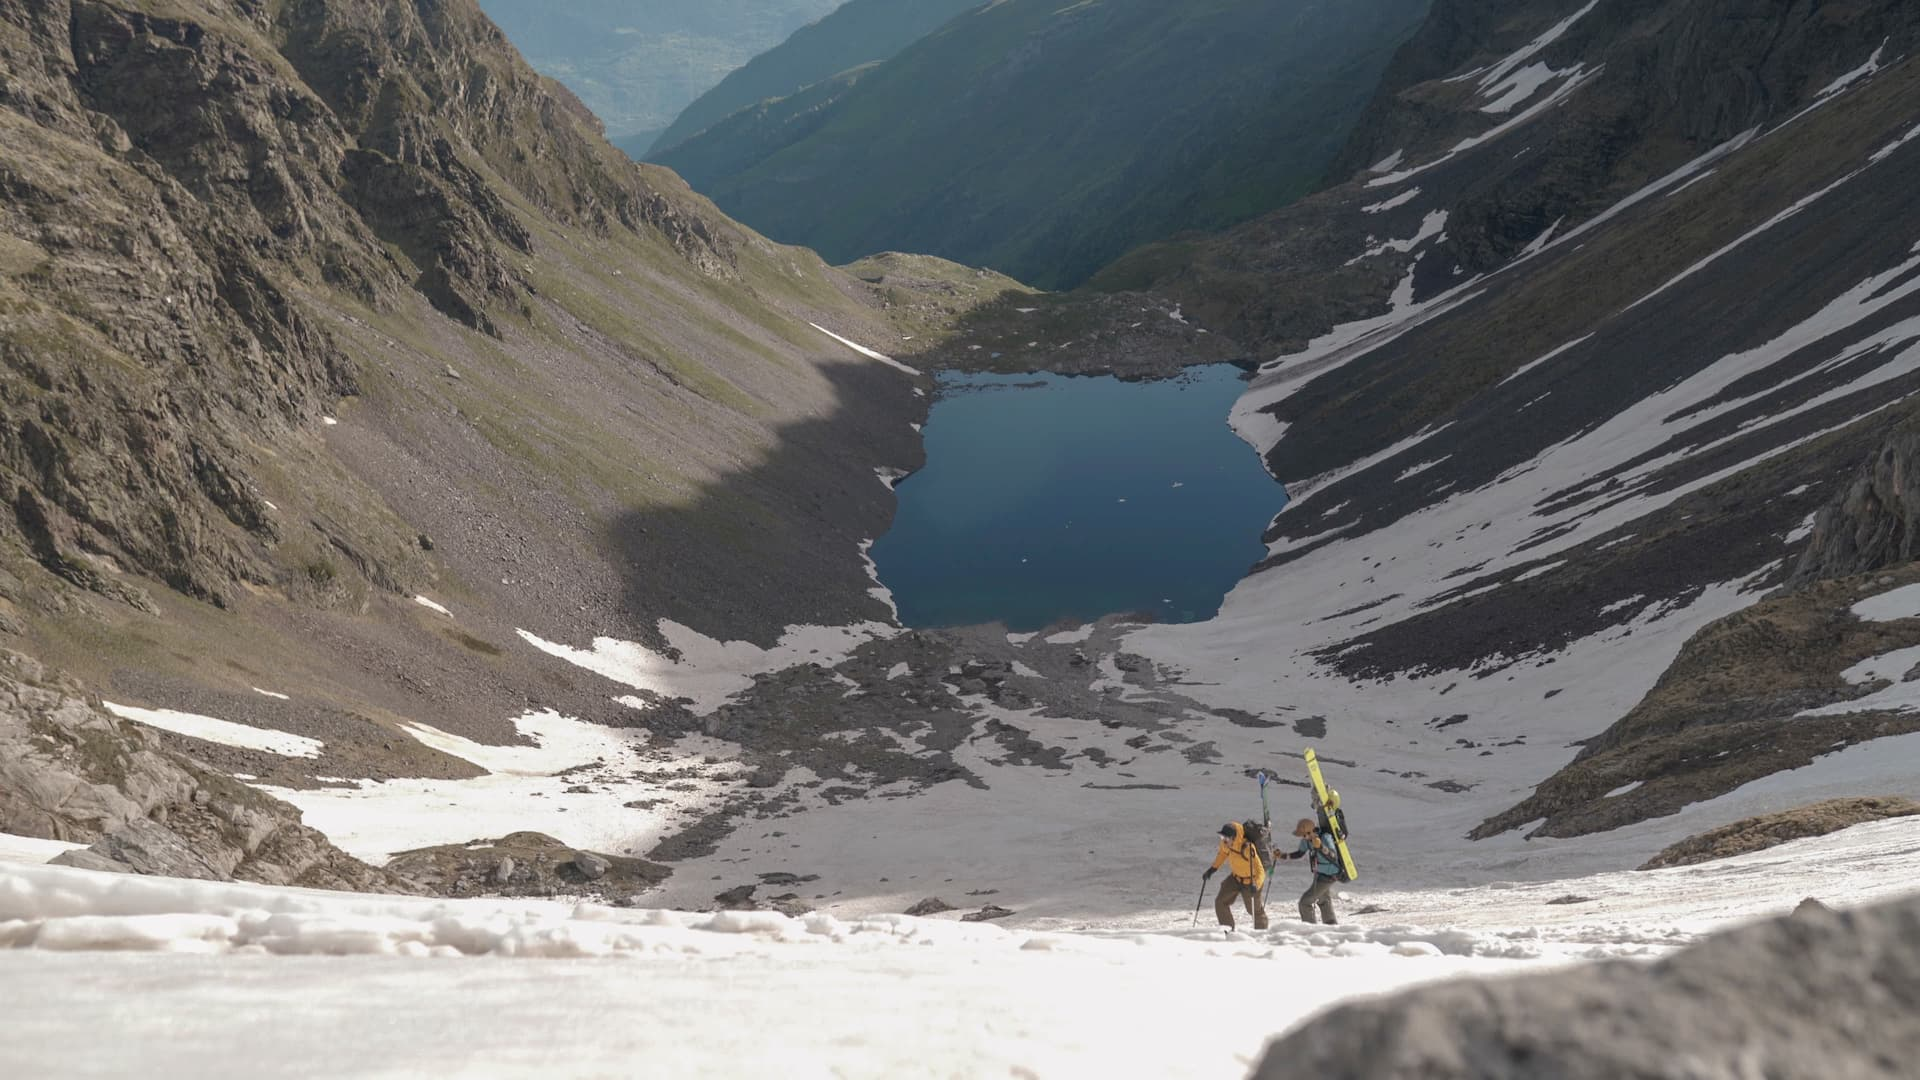
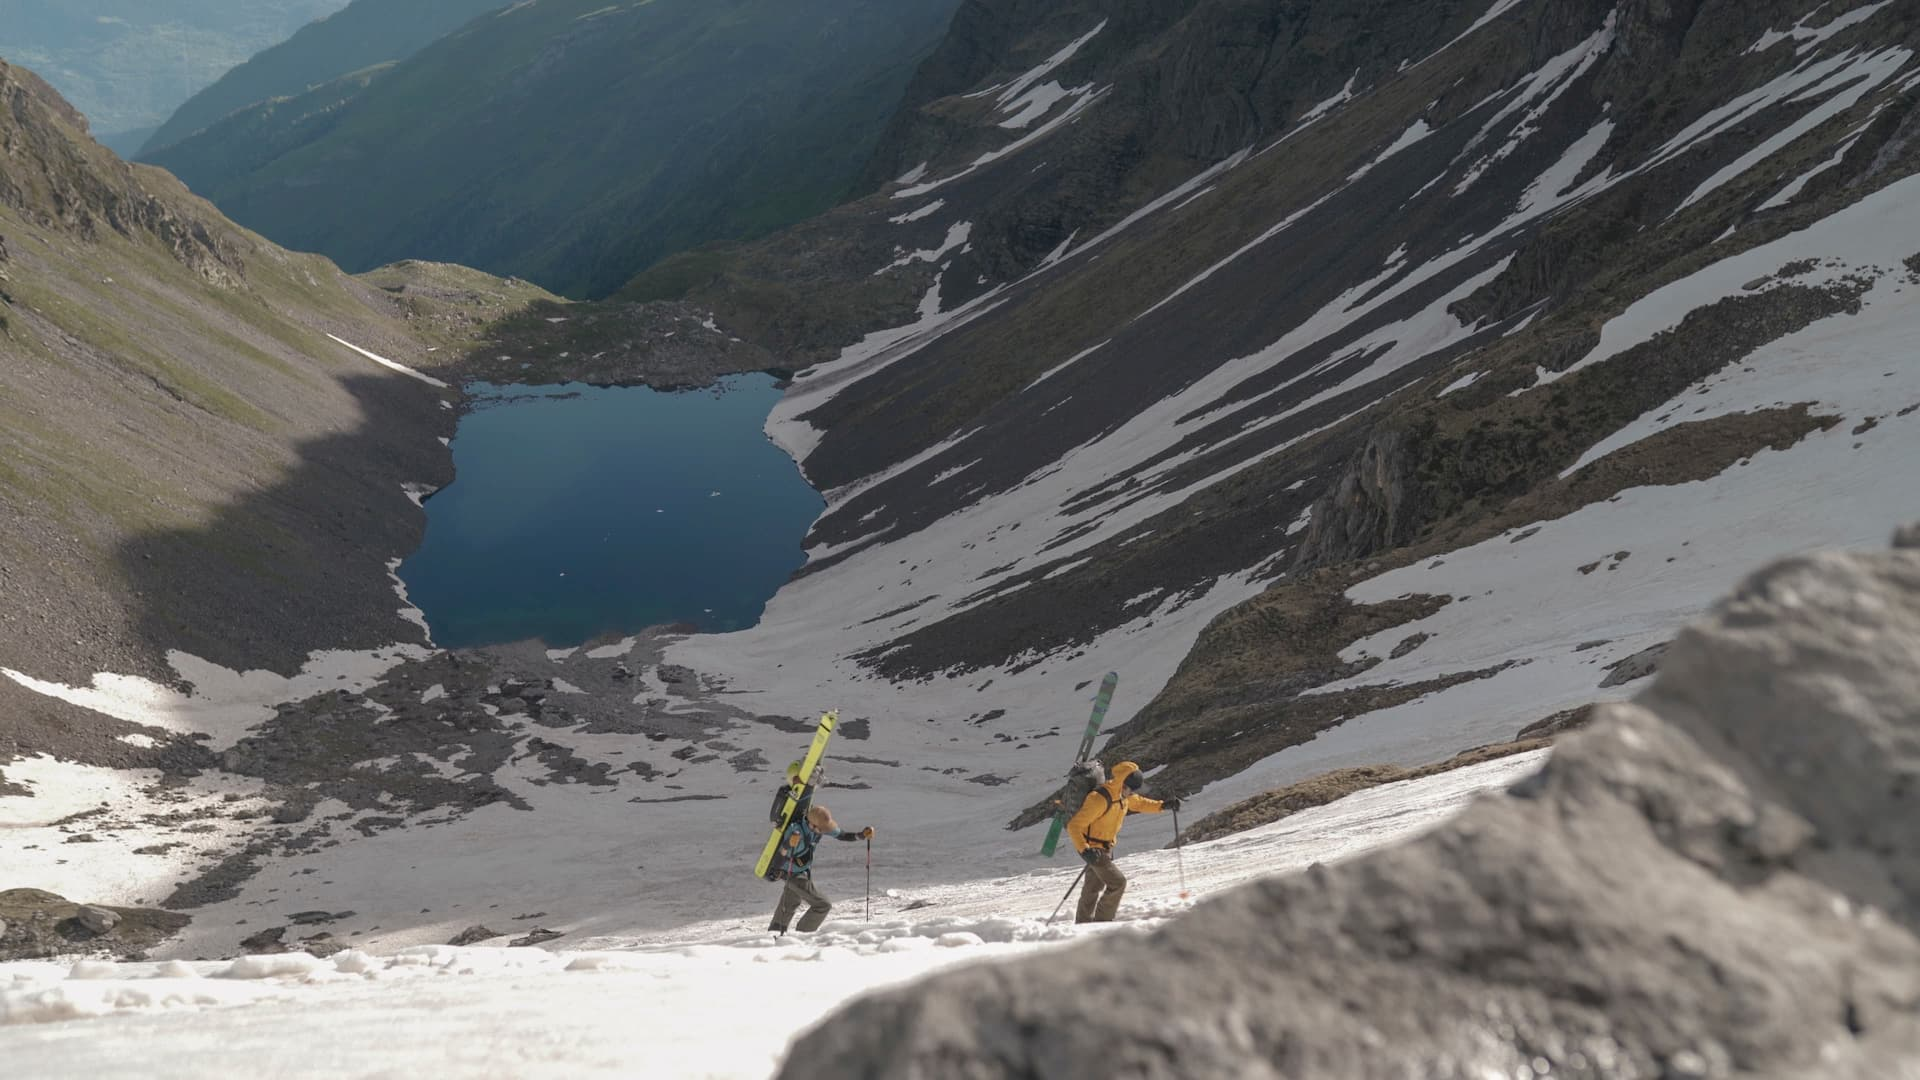
added picture gallery

diff --git a/components/Header/index.js b/components/Header/index.js
@@ -39,26 +39,11 @@ export default function Header() {
   return <div >
     <Navbar />
     <div ref={childrenRef}>
-      <img className="uk-animation-fade" hidden={imageIndex == 0 ? false : true} id="image0" src="images\foto0.jpg" alt="Soul Mountain project" />
-      {/* <img className="uk-animation-fade" hidden={imageIndex == 1 ? false : true} id="image1" src="images\foto1.jpg" alt="Soul Mountain project" /> */}
-      <img className="uk-animation-fade" hidden={imageIndex == 1 ? false : true} id="image2" src="images\foto2.jpg" alt="Soul Mountain project" />
-      {/* <img className="uk-animation-fade" hidden={imageIndex == 3 ? false : true} id="image3" src="images\foto3.jpg" alt="Soul Mountain project" /> */}
-      {/* <img className="uk-animation-fade" hidden={imageIndex == 4 ? false : true} id="image4" src="images\foto4.jpg" alt="Soul Mountain project" /> */}
-      {/* <img className="uk-animation-fade" hidden={imageIndex == 5 ? false : true} id="image5" src="images\foto5.jpg" alt="Soul Mountain project" /> */}
-      <img className="uk-animation-fade" hidden={imageIndex == 2 ? false : true} id="image6" src="images\foto6.jpg" alt="Soul Mountain project" />
-      <img className="uk-animation-fade" hidden={imageIndex == 3 ? false : true} id="image7" src="images\foto7.jpg" alt="Soul Mountain project" />
-      {/* <img className="uk-animation-fade" hidden={imageIndex == 8 ? false : true} id="image8" src="images\foto8.jpg" alt="Soul Mountain project" /> */}
-      {/* <img className="uk-animation-fade" hidden={imageIndex == 9 ? false : true} id="image9" src="images\foto9.jpg" alt="Soul Mountain project" /> */}
-      {/* <img className="uk-animation-fade" hidden={imageIndex == 10 ? false : true} id="image10" src="images\foto10.jpg" alt="Soul Mountain project" /> */}
-      {/* <img className="uk-animation-fade" hidden={imageIndex == 11 ? false : true} id="image11" src="images\foto11.jpg" alt="Soul Mountain project" /> */}
-      {/* <img className="uk-animation-fade" hidden={imageIndex == 12 ? false : true} id="image12" src="images\foto12.jpg" alt="Soul Mountain project" /> */}
-      <img className="uk-animation-fade" hidden={imageIndex == 4 ? false : true} id="image13" src="images\foto13.jpg" alt="Soul Mountain project" />
-      {/* <img className="uk-animation-fade" hidden={imageIndex == 14 ? false : true} id="image14" src="images\foto14.jpg" alt="Soul Mountain project" /> */}
-      {/* <img className="uk-animation-fade" hidden={imageIndex == 15 ? false : true} id="image15" src="images\foto15.jpg" alt="Soul Mountain project" /> */}
-      {/* <img className="uk-animation-fade" hidden={imageIndex == 16 ? false : true} id="image16" src="images\foto16.jpg" alt="Soul Mountain project" /> */}
-      {/* <img className="uk-animation-fade" hidden={imageIndex == 17 ? false : true} id="image17" src="images\foto17.jpg" alt="Soul Mountain project" /> */}
-      {/* <img className="uk-animation-fade" hidden={imageIndex == 18 ? false : true} id="image18" src="images\foto18.jpg" alt="Soul Mountain project" /> */}
-      {/* <img className="uk-animation-fade" hidden={imageIndex == 19 ? false : true} id="image19" src="images\foto19.jpg" alt="Soul Mountain project" /> */}
+      <img className="uk-animation-fade" hidden={imageIndex == 0 ? false : true} id="slide0" src="images\slide0.jpg" alt="Soul Mountain project" />
+      <img className="uk-animation-fade" hidden={imageIndex == 1 ? false : true} id="slide1" src="images\slide1.jpg" alt="Soul Mountain project" />
+      <img className="uk-animation-fade" hidden={imageIndex == 2 ? false : true} id="slide2" src="images\slide2.jpg" alt="Soul Mountain project" />
+      <img className="uk-animation-fade" hidden={imageIndex == 3 ? false : true} id="slide3" src="images\slide3.jpg" alt="Soul Mountain project" />
+      <img className="uk-animation-fade" hidden={imageIndex == 4 ? false : true} id="slide4" src="images\slide4.jpg" alt="Soul Mountain project" />
     </div>
     <div className="uk-hidden@l uk-flex uk-fex-center logoMobile" >
       <div className="uk-width-1-1 uk-text-center">

diff --git a/components/GallerySection/index.js b/components/GallerySection/index.js
@@ -1,0 +1,68 @@
+
+export default function GallerySection() {
+
+  return <div className="uk-padding uk-padding-remove-horizontal uk-flex uk-flex-column uk-width-1-1">
+    <div className="uk-padding uk-padding-remove-bottom uk-width-1-1" data-uk-scrollspy="cls:uk-animation-scale-up; delay:250; repeat: true">
+      <h1 className="uk-padding-small uk-padding-remove-top uk-heading-line uk-text-center"><span>Gallery</span></h1>
+    </div>
+    <div className="uk-padding uk-padding-remove-top">
+      <div data-uk-slideshow="animation: push; autoplay: true">
+        <div className="uk-position-relative uk-visible-toggle uk-light" tabIndex="-1">
+
+          <ul className="uk-slideshow-items">
+            <li>
+              <img id="image1" src="images\foto1.jpg" alt="Soul Mountain project" data-uk-cover />
+            </li>
+            <li>
+              <img id="image2" src="images\foto2.jpg" alt="Soul Mountain project" data-uk-cover />
+            </li>
+            <li>
+              <img id="image3" src="images\foto3.jpg" alt="Soul Mountain project" data-uk-cover />
+            </li>
+            <li>
+              <img id="image4" src="images\foto4.jpg" alt="Soul Mountain project" data-uk-cover />
+            </li>
+            <li>
+              <img id="image5" src="images\foto5.jpg" alt="Soul Mountain project" data-uk-cover />
+            </li>
+            <li>
+              <img id="image6" src="images\foto6.jpg" alt="Soul Mountain project" data-uk-cover />
+            </li>
+            <li>
+              <img id="image7" src="images\foto7.jpg" alt="Soul Mountain project" data-uk-cover />
+            </li>
+            <li>
+              <img id="image8" src="images\foto8.jpg" alt="Soul Mountain project" data-uk-cover />
+            </li>
+            <li>
+              <img id="image9" src="images\foto9.jpg" alt="Soul Mountain project" data-uk-cover />
+            </li>
+            <li>
+              <img id="image10" src="images\foto10.jpg" alt="Soul Mountain project" data-uk-cover />
+            </li>
+            <li>
+              <img id="image11" src="images\foto11.jpg" alt="Soul Mountain project" data-uk-cover />
+            </li>
+            <li>
+              <img id="image12" src="images\foto12.jpg" alt="Soul Mountain project" data-uk-cover />
+            </li>
+            <li>
+              <img id="image13" src="images\foto13.jpg" alt="Soul Mountain project" data-uk-cover />
+            </li>
+            <li>
+              <img id="image14" src="images\foto14.jpg" alt="Soul Mountain project" data-uk-cover />
+            </li>
+            <li>
+              <img id="image15" src="images\foto15.jpg" alt="Soul Mountain project" data-uk-cover />
+            </li>
+          </ul>
+
+          <a class="uk-position-center-left uk-position-small uk-hidden-hover" href="#" data-uk-slidenav-previous data-uk-slideshow-item="previous"></a>
+          <a class="uk-position-center-right uk-position-small uk-hidden-hover" href="#" data-uk-slidenav-next data-uk-slideshow-item="next"></a>
+
+        </div>
+        <ul class="uk-slideshow-nav uk-dotnav uk-flex-center uk-margin"></ul>
+      </div>
+    </div>
+  </div>
+}

diff --git a/components/VideoSection/index.js b/components/VideoSection/index.js
@@ -8,7 +8,7 @@ export default function VideoSection() {
     </div>
     <div className=" uk-padding uk-padding-remove-horizontal uk-padding-remove-top uk-flex uk-flex-center">
       <div data-uk-scrollspy="cls:uk-animation-slide-bottom-medium; delay: 250; repeat: true">
-        <iframe width="784" height="441" src="https://www.youtube.com/embed/d_aAD_lvWlE" frameBorder="0" allow="accelerometer; autoplay; clipboard-write; encrypted-media; gyroscope; picture-in-picture" allowFullScreen data-uk-responsive></iframe>
+        <iframe width="896" height="504" src="https://www.youtube.com/embed/d_aAD_lvWlE" frameBorder="0" allow="accelerometer; autoplay; clipboard-write; encrypted-media; gyroscope; picture-in-picture" allowFullScreen data-uk-responsive></iframe>
       </div>
     </div>
   </div>

diff --git a/pages/index.js b/pages/index.js
@@ -11,6 +11,7 @@ import PressSection from '../components/PressSection'
 import TeamSection from '../components/TeamSection'
 import FooterSection from '../components/FooterSection';
 import SponsorshipSection from '../components/SponsorshipSection';
+import GallerySection from '../components/GallerySection';
 
 export default function Home() {
 
@@ -69,6 +70,9 @@ export default function Home() {
         </section>
         <section className="teamSection" id="team">
           <TeamSection />
+        </section>
+        <section className="gallerySection" id="gallery">
+          <GallerySection />
         </section>
         <section className="pressSection" id="press">
           <PressSection />

diff --git a/components/Navbar/index.js b/components/Navbar/index.js
@@ -52,7 +52,7 @@ export default function Navbar() {
             <nav id="navbarSmall" className="navbarSmall uk-navbar-container uk-dark uk-position-top uk-position-z-index" data-uk-navbar data-uk-scrollspy="cls:uk-animation-slide-top ">
                 <div className="uk-navbar-left uk-padding-small">
                     <div className="uk-padding uk-padding-remove-vertical">
-                        <a>
+                        <a  href="#top" rel="noopener noreferrer" data-uk-scroll>
                             <img className="logo" src='logo.png' alt="soulmountain" width='200px' />
                         </a>
                     </div>

diff --git a/styles/globals.css b/styles/globals.css
@@ -57,23 +57,28 @@ main {
   background-color: white;
 }
 
+.gallerySection {
+  width: 100%;
+  background-color: whitesmoke;
+}
+
 .pressSection {
   width: 100%;
   min-height: 30rem;
   display: flex;
   justify-content: center;
   align-items: center;
-  background-color: whitesmoke;
+  background-color: white;
 }
 
 .sponsorshipSection {
   width: 100%;
-  background-color: white;
+  background-color: whitesmoke;
 }
 
 .contactSection {
   width: 100%;
-  background-color: whitesmoke;
+  background-color: white;
 }
 
 .navbar {

diff --git a/styles/styles.module.css b/styles/styles.module.css
@@ -12,7 +12,7 @@
 
 .footer {
   width: 100%;
-  background-color: white;
+  background-color: whitesmoke;
   display: flex;
   justify-content: center;
   align-items: center;
